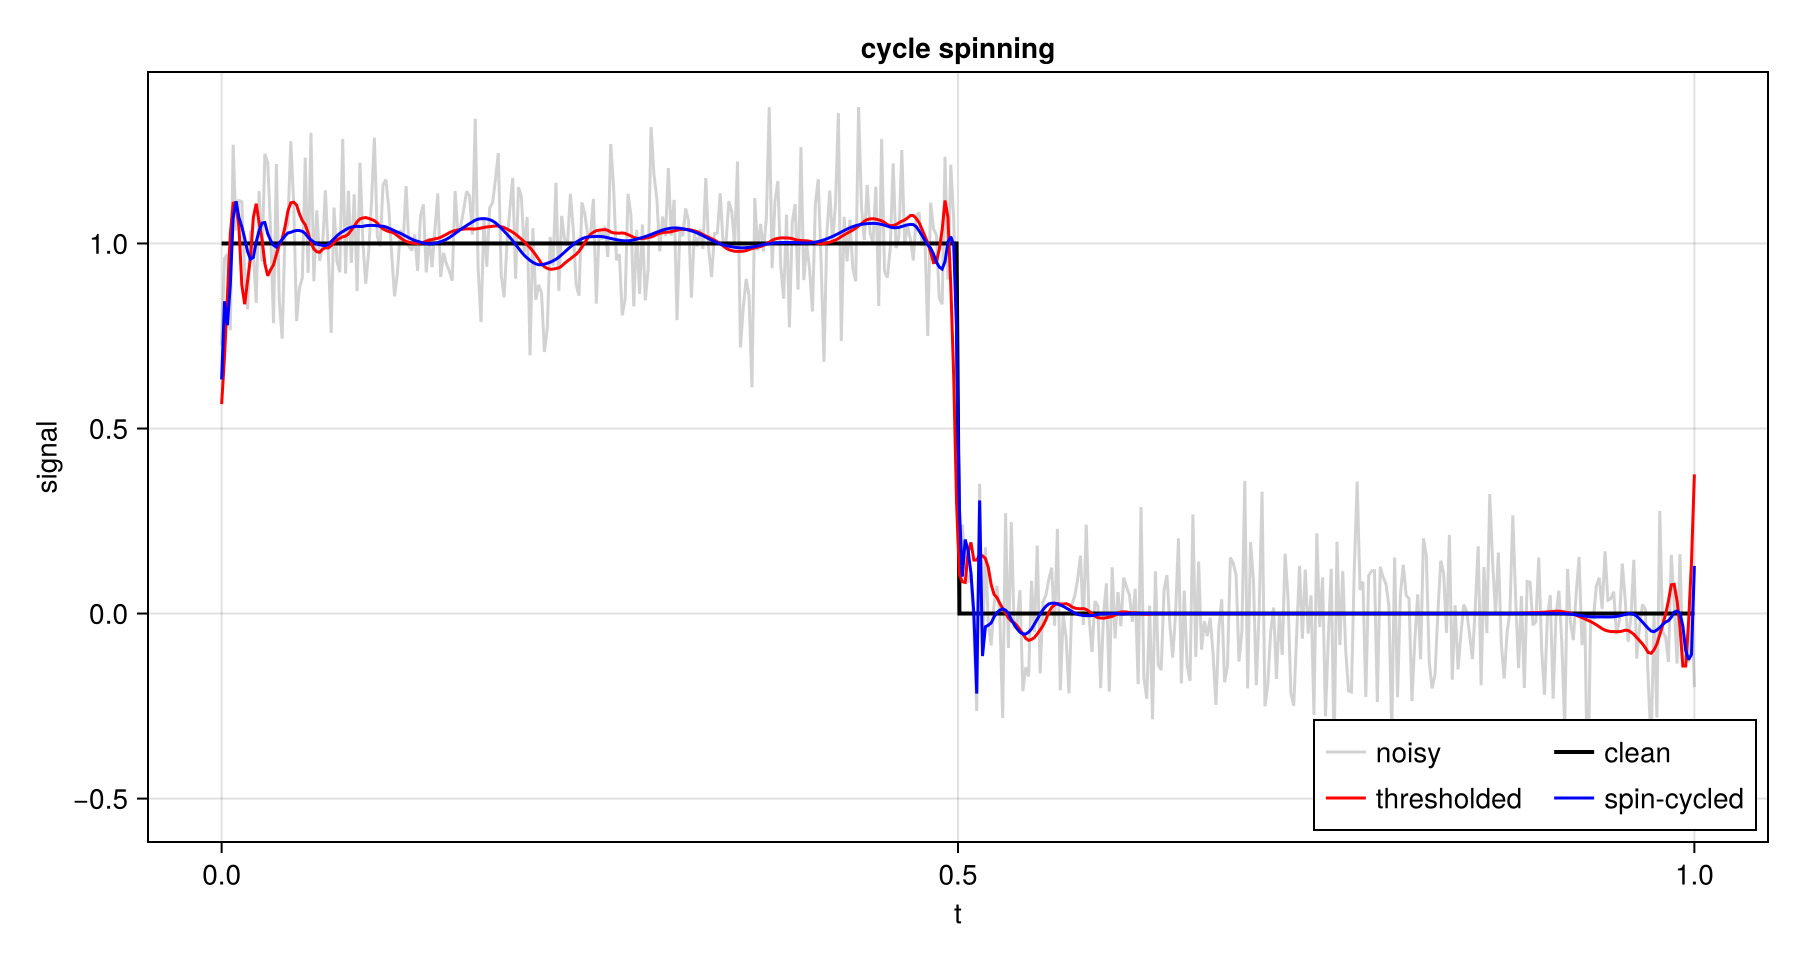
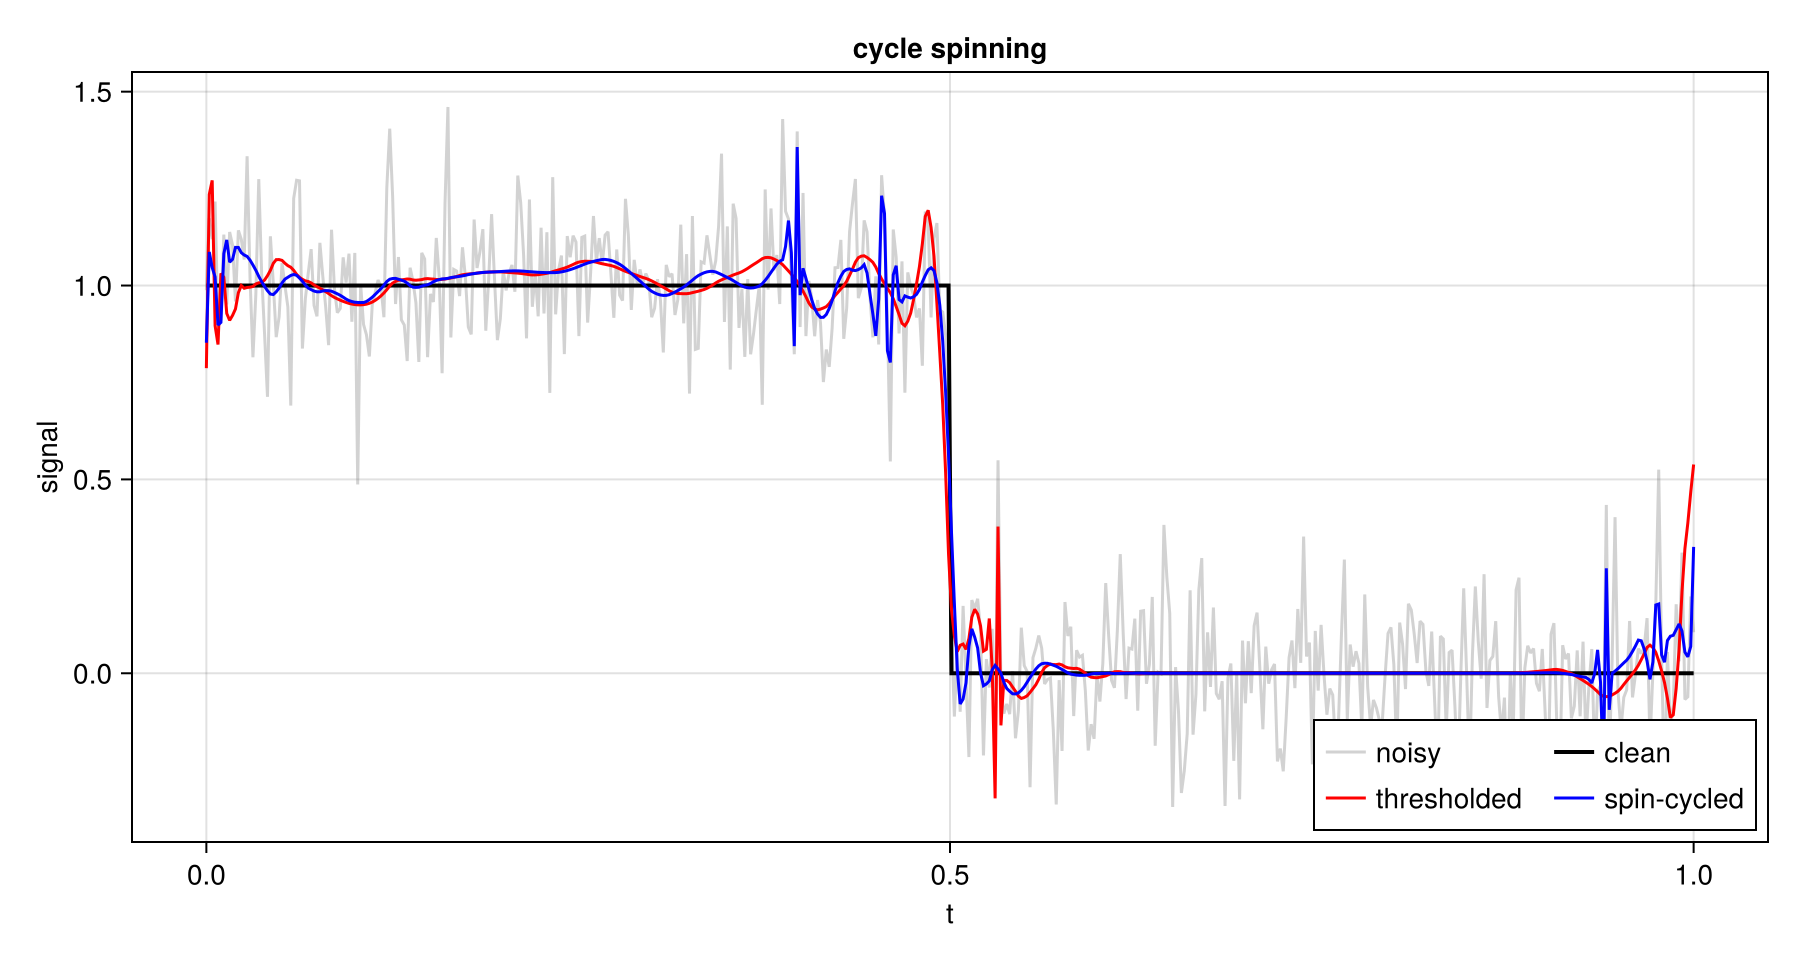
Docs: move denoising to the algorithms page, with figures
Expands the Algorithms page with the denoising pipeline: the three
shrinkage rules as transfer functions, the universal and SURE threshold
rules with the MAD noise estimate, and a comparison of soft, hard and
garrote on one signal. Adds a two-dimensional example showing the noisy
image, the estimate and the removed noise. The examples page now points at
the Algorithms page instead of repeating the section.

diff --git a/docs/src/algorithms.md b/docs/src/algorithms.md
@@ -66,3 +66,57 @@ the periodic wrap-around lives. The spin-cycled result follows the step
 more closely and rings less.
 
 `cyclespin!(x, n)` performs one circular shift by `n`, in place.
+## Denoising
+
+The wavelet denoiser is three steps: transform, shrink the detail
+coefficients, invert. [`denoise`](@ref) runs all three, and the pieces are
+exported on their own.
+
+### Shrinking coefficients
+
+[`threshold!`](@ref) applies one of three rules at a threshold `λ`:
+
+- `:soft` subtracts `λ` from the magnitude. The rule is continuous, which
+  keeps the estimate smooth, but it biases every coefficient toward zero.
+- `:hard` keeps a coefficient or zeroes it. It is unbiased for large
+  coefficients and leaves ringing at sharp features.
+- `:garrote` sits between the two, `x (1 - λ^2 / |x|^2)`.
+
+![The three shrinkage rules.](assets/shrinkage.png)
+
+### Choosing the threshold
+
+The default rule is `:universal`, `λ = σ sqrt(2 log n)`, with `σ` estimated
+from the finest detail band by [`noisiness`](@ref), which is the median
+absolute deviation divided by `0.6745`. `:sure` minimises Stein's unbiased
+risk estimate instead, and a number is used as the threshold directly. Only
+the detail coefficients are thresholded; the approximation band is kept, so
+the smooth part of the signal survives.
+
+`cycles > 0` averages the estimate over circular shifts with
+[`cyclespinning!`](@ref).
+
+```julia
+s_denoised = denoise(s, WT_D4, 4)
+s_smooth   = denoise(s, WT_D4, 4; cycles = 8)
+```
+
+![A noisy signal, the plain estimate and the cycle-spun estimate.](assets/denoise.png)
+
+The rules trade bias against ringing:
+
+![The same signal denoised with soft, hard and garrote shrinkage.](assets/denoise-modes.png)
+
+### Two dimensions
+
+The same call works on an image. The noise estimate uses every finest-scale
+detail subband, and the threshold applies to all of them.
+
+```julia
+img_denoised = denoise(noisy_img, WT_D4, 3)
+```
+
+![A noisy image, the denoised estimate and the noise that was removed.](assets/denoise-image.png)
+
+[`compress`](@ref) is the same construction with a fixed coefficient budget
+rather than a threshold.

diff --git a/docs/src/examples.md b/docs/src/examples.md
@@ -39,22 +39,8 @@ and pays for it with a blocky reconstruction.
 
 ## Denoising
 
-[`denoise`](@ref) transforms, estimates the noise from the finest detail
-band, thresholds the detail coefficients, and inverts. The approximation band
-is kept, so the smooth part of the signal survives. `cycles > 0` averages the
-estimate over circular shifts with [`cyclespinning!`](@ref).
-
-```julia
-s_denoised = denoise(noisy, WT_D4, 4)
-s_smooth   = denoise(noisy, WT_D4, 4; cycles = 8)
-```
-
-![A noisy signal, the plain estimate, and the cycle-spun estimate.](assets/denoise.png)
-
-The plain estimate leaves small oscillations near the boundary; spinning
-averages them out. [`threshold!`](@ref), [`noisiness`](@ref) and
-[`keeplargest!`](@ref) are the pieces it is built from, and [`compress`](@ref)
-does the same with a fixed coefficient budget.
+[`denoise`](@ref) and the coefficient shrinkage functions are covered on the
+[Algorithms](@ref) page.
 
 ## An image
 
